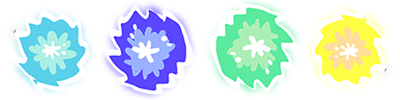
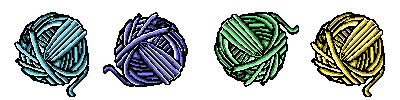
sprites update
Change the game sprites to cat related

diff --git a/javascript.js b/javascript.js
@@ -7,7 +7,6 @@ class Escena extends Phaser.Scene {
         });
 
         this.load.image('mano1', 'img/mano1.png');
-        this.load.image('mano2', 'img/mano2.png');
         this.load.image('leftbtn', 'img/flecha.png');
     }
 
@@ -30,7 +29,8 @@ class Escena extends Phaser.Scene {
         });
         this.bola.play('brillar');
         this.bola.setBounce(1);
-        //primer jugador
+        
+        // Primer jugador
         this.mano1 = this.physics.add.sprite(70, 320, 'mano1');
         this.mano1.body.immovable = true;
         this.bola.setBounce(10);
@@ -38,12 +38,13 @@ class Escena extends Phaser.Scene {
         this.physics.add.collider(this.bola, this.mano1);
         this.mano1.setCollideWorldBounds(true);
 
-        this.mano2 = this.physics.add.sprite(882, 320, 'mano2');
+        // Segundo jugador usando el mismo sprite pero volteado
+        this.mano2 = this.physics.add.sprite(882, 320, 'mano1');
+        this.mano2.flipX = true; // Voltear horizontalmente
         this.mano2.body.immovable = true;
-        this.mano2.setBounce(10);
-        this.mano1.setSize(60, 250);
+        this.mano2.setSize(60, 250);
         this.physics.add.collider(this.bola, this.mano2);
-        this.mano1.setCollideWorldBounds(true);
+        this.mano2.setCollideWorldBounds(true);
 
         const velocidad = 500;
         let anguloInicial = Math.random() * Math.PI / 2 + Math.PI / 4;
@@ -72,7 +73,7 @@ class Escena extends Phaser.Scene {
         this.bola.rotation += 0.1;
 
         if (this.bola.x < 0 && this.alguienGano === false) {
-            alert('Player 1 ha perdido'); // Cambiado aquí
+            alert('Player 1 ha perdido');
             this.alguienGano = true;
             this.marcadorMano2.text = parseInt(this.marcadorMano2.text) + 1;
             this.ColocarPelota();
@@ -178,6 +179,4 @@ const config = {
         default: 'arcade',
     },
 };
-
 new Phaser.Game(config);
-

diff --git a/index.html b/index.html
@@ -1,4 +1,4 @@
-<DOCTYPE html>
+html: <DOCTYPE html>
     <html lang="en">
         <head>
             <meta charset="UTF-8">
